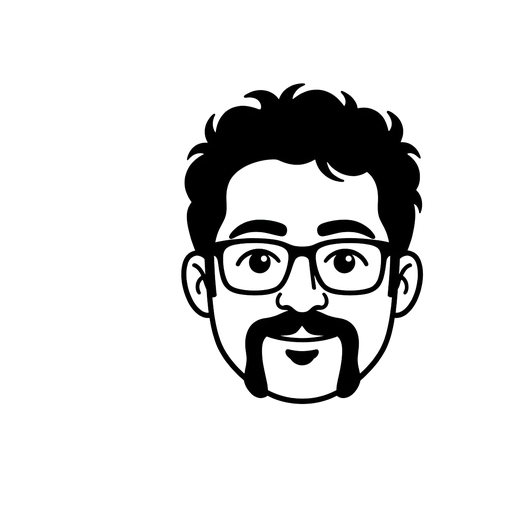
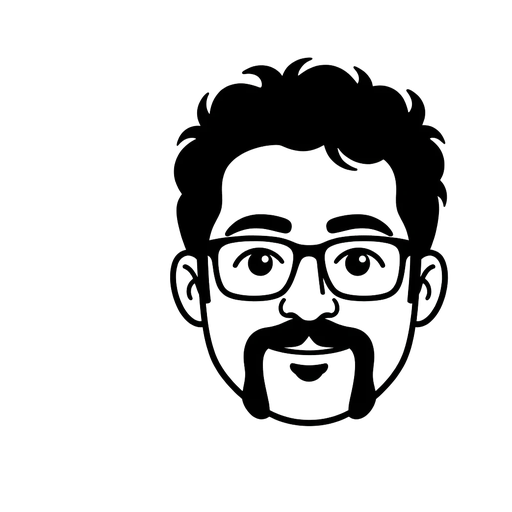
feat: tighten brand mark padding so leaf reads larger in nav

Changed region(s): [[0.3125, 0.0938, 0.875, 0.8438]]

diff --git a/index.html b/index.html
@@ -14,11 +14,11 @@
       href="https://fonts.googleapis.com/css2?family=Fraunces:ital,opsz,wght@0,9..144,500;0,9..144,600;0,9..144,700;1,9..144,600&family=Plus+Jakarta+Sans:wght@400;500;600;700&family=Baloo+Bhaijaan+2:wght@400;500;600;700;800&family=Lalezar&family=Vazirmatn:wght@500;600;700;800&display=swap"
       rel="stylesheet"
     />
-    <link rel="icon" type="image/x-icon" href="favicon.ico?v=20261031fav" />
-    <link rel="icon" type="image/png" sizes="32x32" href="assets/favicon-32x32.png?v=20261031fav" />
-    <link rel="icon" type="image/png" sizes="16x16" href="assets/favicon-16x16.png?v=20261031fav" />
-    <link rel="icon" type="image/svg+xml" href="assets/favicon.svg?v=20261031fav" />
-    <link rel="apple-touch-icon" sizes="180x180" href="assets/apple-touch-icon.png?v=20261031fav" />
+    <link rel="icon" type="image/x-icon" href="favicon.ico?v=20261031mark2" />
+    <link rel="icon" type="image/png" sizes="32x32" href="assets/favicon-32x32.png?v=20261031mark2" />
+    <link rel="icon" type="image/png" sizes="16x16" href="assets/favicon-16x16.png?v=20261031mark2" />
+    <link rel="icon" type="image/svg+xml" href="assets/favicon.svg?v=20261031mark2" />
+    <link rel="apple-touch-icon" sizes="180x180" href="assets/apple-touch-icon.png?v=20261031mark2" />
     <link rel="stylesheet" href="styles.css?v=20261025_copy" />
     <script>
       document.documentElement.classList.add("js");
@@ -31,7 +31,7 @@
     <header class="nav-wrap">
       <nav class="nav-island" aria-label="Main">
         <a class="nav-brand" href="#top">
-          <img class="nav-mark" src="assets/brand/mark.png?v=20261031fav" alt="Aghili Labs" width="36" height="36" />
+          <img class="nav-mark" src="assets/brand/mark.png?v=20261031mark2" alt="Aghili Labs" width="36" height="36" />
           <span>Aghili Labs</span>
         </a>
         <div class="nav-links" id="nav-links">
@@ -419,7 +419,7 @@
       <div class="container footer-grid">
         <div>
           <div class="nav-brand footer-brand">
-            <img class="nav-mark" src="assets/brand/mark.png?v=20261031fav" alt="Aghili Labs" width="36" height="36" />
+            <img class="nav-mark" src="assets/brand/mark.png?v=20261031mark2" alt="Aghili Labs" width="36" height="36" />
             <span>Aghili Labs</span>
           </div>
           <p data-i18n="footerText">
